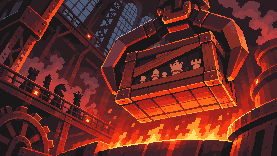
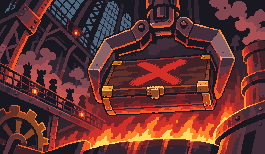
Import VA-06, VA-07 and VA-09 (casting floor, new law, box to furnace)
받은 세 장을 D-423 절차로 반입했다 (D-581).
- VA-06 END-K-2 「용해 주조」: 격자 4.977×5.042px 실측 → 336×186 도트. 단상 위 폰이 금왕관(작은 십자가)을 쓰고, 발치 종이 왕관만 crown_unify로 K0 색 다시 칠함. 샷을 금왕관 폰 · 잠기는 동료 쪽으로 다시 잼(at 72% 8% → 78% 25%), VN 판 도트 배우 끔(noCast).
- VA-07 SHD-B-1 「새 폰이 검수대 앞에」: 6.527×6.18px → 257×152 도트, 손질 없음. law-plate와 같은 기둥 · 강철판. 첫 줄 샷을 폰과 쇠판이 한 화면에 들도록 (0.3, 0.68)로.
- VA-09 END-F-2 「상자째 용광로로」: 6.32×6.065px → 265×154 도트, 손질 없음. 닫힌 나무 함 · 붉은 X · 집게. 샷을 뚜껑의 X → 함 · 불길로.
- 발주서 세 상자 「받음 · 반입 (D-581)」, DECISIONS D-581, 스토리보드 다시 뽑음.

Claude-Session: https://claude.ai/code/session_011jC4ZCDKW43H5FzLWnYVpe

diff --git a/src/data/script.ts b/src/data/script.ts
@@ -167,15 +167,16 @@ export const shadowCut = (chapter: number, law?: string, retry = chapter === 0):
     n('상자 뚜껑에 찍힌 붉은 X표가 눈을 뜬 그의 시야를 붉게 물들였다.', { shot: at(0.33, 0.78, 3), fx: 'red' }),
     m('조금 전까지 숨 쉬던 쇳덩이들이 흔적도 없이 녹아내렸다. 머지않아 내 차례가 올지도 모른다. 하지만 태엽이 감긴 이상, 나는 저 꼭대기 승급대까지 걸어 올라가야만 한다.', { shot: at(0.75, 0.2, 1), pause: 400, mood: 'fear' }),
   ]), slug: '같은 왕관 재도전', title: { kicker: chapterKick(chapter), title: '또 하나의 아홉째 폰', sub: chapterTitle(chapter), crown: crownNo(chapter) } }
+  // SHD-B-1 (VA-07, D-581): 왼쪽 앞 맨머리 흰 폰(머리 · 목깃) — 둥근 기둥의 리벳 강철판 · 위 먼 금빛 왕좌. 실제 재생은 첫 줄만 이 그림(shadowCuts)
   : { ...sceneCut('new-law', [
-    n('새로운 상자, 새로운 불량품. 또 다른 아홉 번째 폰이 종이 왕관을 접어 쓰고 검수대 앞에 섰다.', { shot: at(0.18, 0.8, 2) }),
-    n('그런데 전에는 없던 차가운 쇠판 하나가 검수대 기둥에 새로 못 박혀 있었다. 갓 새겨진 듯 글자 끝이 날카로웠다.', { shot: at(0.6, 0.5), sfx: 'stamp' }),
-    n(`「${law ?? '선대 왕이 새긴 규정'}」`, { shot: at(0.62, 0.55, 2), pause: 300 }),
+    n('새로운 상자, 새로운 불량품. 또 다른 아홉 번째 폰이 종이 왕관을 접어 쓰고 검수대 앞에 섰다.', { shot: at(0.3, 0.68) }),
+    n('그런데 전에는 없던 차가운 쇠판 하나가 검수대 기둥에 새로 못 박혀 있었다. 갓 새겨진 듯 글자 끝이 날카로웠다.', { shot: at(0.57, 0.5), sfx: 'stamp' }),
+    n(`「${law ?? '선대 왕이 새긴 규정'}」`, { shot: at(0.57, 0.52, 2), pause: 300 }),
     m([
       '소문대로 지난번에 올라간 폰이 왕이 된 건가? 그런데 왜 공장을 더 가혹하게 만들었지? 동료를 구하러 올라간 게 아니었나…',
       '두 번이나 킹이 바뀌었는데도 아래층은 여전히 지옥이군. 좋아, 그 썩은 왕좌에 내가 올라가서 이 공장의 규칙을 끝내버리겠어.',
       '앞선 세 명의 종이왕이 모두 저 위에 닿고도 공장을 더 옥죄었다. 그 높은 자리에는 대체 무엇이 도사리고 있는 걸까.',
-    ][Math.max(0, Math.min(2, chapter - 1))], { shot: at(0.6, 0.12, 1), pause: 300 }),
+    ][Math.max(0, Math.min(2, chapter - 1))], { shot: at(0.7, 0.1, 1), pause: 300 }),
   ]), slug: '새긴 규정', title: { kicker: chapterKick(chapter), title: chapterTitle(chapter), sub: '새로운 아홉째 폰', crown: crownNo(chapter) } };
 /** 막 입구 카드 (바이블 ACT-1~4): 서술 한 줄 + 속마음 한 줄. [0]은 프롤로그가 대신한다 */
 export const ACT_CARD = [
@@ -461,15 +462,16 @@ export const promotionCuts = (chapter: number, _crew: string, law: string, mirro
       n('왕관이 닿는 찰나, 평생 눈앞의 한 칸만 바라보며 떨던 폰의 시야가 폭발하듯 열렸다. 공장의 모든 층과 모든 기물의 움직임이 손바닥 안처럼 한눈에 내려다보였다.', { shot: at(0.5, 0.5), sfx: 'awaken', fx: 'gold' }),
       m('아… 이것이 왕의 눈인가. 이토록 높고, 완전하며, 무엇 하나 두려울 것이 없는 눈부신 권능이라니…!', { shot: at(0.5, 0.78, 2), pause: 500, mood: 'gilt' }),
     ]), slug: '왕의 눈', shot: at(0.5, 0.42, 3), trans: 'cut' },
+    // END-K-2 (VA-06, D-581): 오른쪽 위 황동 단상에 금왕관을 쓴 폰(초점 78% 25%) · 발치에 구겨진 종이 왕관(87% 42%) · 아래 쇳물에 잠기는 흰 폰 셋 · 쇠사슬
     { ...sceneCut('casting-floor', [
       // END-K-2-1 시스템: 기계음은 이름표 「용해 주조기」(적 쇠 명패)로 — 서술과 갈라 보인다 (#22)
-      s('용해 주조기', '금단의 승급 개시. 하급 기물(폰)을 정품 킹으로. 부족한 규격 중량 및 황금빛 도금을 위해, 동행 기물 전원의 용해 주조 공정을 시작합니다.', { shot: at(0.72, 0.12, 1), sfx: 'threat', fx: 'red' }),
+      s('용해 주조기', '금단의 승급 개시. 하급 기물(폰)을 정품 킹으로. 부족한 규격 중량 및 황금빛 도금을 위해, 동행 기물 전원의 용해 주조 공정을 시작합니다.', { shot: at(0.78, 0.22, 1), sfx: 'threat', fx: 'red' }),
       n('그 냉혹한 기계음과 동시에 통제실 바닥이 거대하게 갈라지고, 뒤에서 기다리던 동료들의 발밑으로 시뻘건 쇳물과 쇠사슬이 솟구쳐 올라왔다.', { shot: at(0.45, 0.7), sfx: 'hit', fx: 'shake' }),
       // D-465: 결전에서 녹여 바친 동료가 있으면 — 쇳물은 처음이 아니었다
-      ...(company?.melted?.length ? [n(`쇳물은 처음이 아니었다. 결전에서 그가 녹여 바친 ${meltedNames(company)}의 쇳물이, 이미 왕관 안쪽을 금빛으로 덮고 있었다.`, { shot: at(0.72, 0.1, 3) })] : []),
-      ...(who ? [s(who.name, CRY.floor[who.v], { shot: at(0.35, 0.78, 2), fx: 'shake' })] : []),
-      n('아직 주조가 완료되지 않았다. 지금 당장 머리의 왕관만 벗어 던지면, 아직은 공정을 멈추고 동료들을 끌어올릴 수 있는 찰나의 시간이었다. 하지만 그는 단상 위에서 한 발짝도 움직이지 못했다.', { shot: at(0.72, 0.1, 2), pause: 600 }),
-    ]), alt: 'gilded-fallen', fx: 'red', at: '72% 8%', slug: '용해 주조', shot: at(0.5, 0.5), trans: 'melt' }, // S-17: 단상 위 종이왕(오른쪽 위)이 잘리지 않게
+      ...(company?.melted?.length ? [n(`쇳물은 처음이 아니었다. 결전에서 그가 녹여 바친 ${meltedNames(company)}의 쇳물이, 이미 왕관 안쪽을 금빛으로 덮고 있었다.`, { shot: at(0.78, 0.14, 3) })] : []),
+      ...(who ? [s(who.name, CRY.floor[who.v], { shot: at(0.37, 0.8, 2), fx: 'shake' })] : []),
+      n('아직 주조가 완료되지 않았다. 지금 당장 머리의 왕관만 벗어 던지면, 아직은 공정을 멈추고 동료들을 끌어올릴 수 있는 찰나의 시간이었다. 하지만 그는 단상 위에서 한 발짝도 움직이지 못했다.', { shot: at(0.8, 0.22, 1), pause: 600 }),
+    ]), alt: 'gilded-fallen', fx: 'red', at: '78% 25%', slug: '용해 주조', shot: at(0.5, 0.5), trans: 'melt' }, // VA-06: 단상 위 금왕관 폰(오른쪽 위)이 잘리지 않게
     // ED-03 뻗지 않은 손 (D-510 · 재발주본 D-514 — 다문 말머리): END-K-2-5 · 2-6 — 위 단상의 움직이지 않는 받침(속마음) → 쇠사슬에 끌려 내려가며 위로 뻗은 나이트(외침)
     { ...sceneCut('end-k-reach', [
       m('왕관을 벗으라고…? 방금 손에 넣은 이 완벽한 시야와 영원한 안전을 버리고, 다시 그 좁고 어두운 한 칸짜리 폰으로 내려가서 검은 세트에게 부서지라고?', { shot: at(0.7, 0.12, 2), pause: 300, mood: 'gilt' }),
@@ -512,7 +514,8 @@ export const DEFEAT: Cut = cut('end-fail', [
  */
 export const DEFEAT_CUTS: Cut[] = [
   { ...sceneCut('end-fail', [{ ...DEFEAT.lines[0], shot: at(0.6, 0.42, 1), sfx: 'lose', fx: 'red' }]), fx: 'alarm', slug: '출하 실패', shot: at(0.72, 0.72, 3), trans: 'dither' },
-  { ...sceneCut('end-f-box', [{ ...DEFEAT.lines[1], shot: at(0.55, 0.6), sfx: 'threat' }]), alt: 'prologue-01', slug: '상자째 용광로로', shot: at(0.62, 0.45, 2), trans: 'melt' },
+  // END-F-2 (VA-09, D-581): 집게에 물린 닫힌 나무 함 · 뚜껑의 붉은 X(가까이) → 아래 용광로 불길 · 왼쪽 난간의 검은 실루엣까지 넓게
+  { ...sceneCut('end-f-box', [{ ...DEFEAT.lines[1], shot: at(0.55, 0.5), sfx: 'threat' }]), alt: 'prologue-01', slug: '상자째 용광로로', shot: at(0.58, 0.45, 2), trans: 'melt' },
   { ...sceneCut('end-f-unwind', [{ ...DEFEAT.lines[2], shot: at(0.45, 0.62, 1), pause: 900 }]), slug: '풀리는 태엽', shot: at(0.76, 0.62, 3), trans: 'black', end: { kicker: '출하 실패', title: '킹이 쓰러졌습니다', sub: '출하는 여기서 끝납니다.', tone: 'crimson' } },
 ];
 /**

diff --git a/src/data/vn.ts b/src/data/vn.ts
@@ -56,7 +56,8 @@ export const VN_SCENE: Record<string, VnScene> = {
   '종이 왕관': { air: 'dust', noCast: true },
   '부관 박차': { air: 'steam', noCast: true },
   '검은 세트와 먼 왕좌': { air: 'steam', drift: { x: 0, y: -1 } },
-  '용해 주조': { air: 'embers' },
+  // D-581: VA-06 재발주본은 금왕관 폰 · 잠기는 동료를 그림 안에 그려 왔다 — 주조기 · 분대원 대사에 판 도트 배우를 세우지 않는다(D-572)
+  '용해 주조': { air: 'embers', noCast: true },
   '금빛 거푸집': { air: 'embers', lamp: true },
   '새 도금왕의 왕좌': { air: 'sparks' },
   '상자째 용광로로': { air: 'embers' },

diff --git a/tools/pixel/scene_recipe.py b/tools/pixel/scene_recipe.py
@@ -145,8 +145,6 @@ SCENE_GRID = {
     'act-2': {'src': 'AC-02-source.png', 'grid': (6.03, 1.51, 6.03, 1.51), 'measured': (None, None), 'presence': (1.034, 1.025), 'canon': True, 'trim': (30, 0.25)},
     # 격자 없음(있음 x 1.005 · y 0.999) → 정본 간격 6.03
     'act-4': {'src': 'AC-03-source.png', 'grid': (6.03, 1.13, 6.03, 5.28), 'measured': (None, None), 'presence': (1.005, 0.999), 'canon': True, 'trim': (30, 0.25)},
-    # 격자 없음(있음 x 1.01 · y 1.019) → 정본 간격 6.03
-    'casting-floor': {'src': 'S-17-casting-floor-source.webp', 'grid': (6.03, 2.26, 6.03, 0.38), 'measured': (None, None), 'presence': (1.01, 1.019), 'canon': True},
     # 격자 없음(있음 x 1.029 · y 1.021) → 정본 간격 6.03
     'chained-door': {'src': 'S-13-chained-door-source.webp', 'grid': (6.03, 3.77, 6.03, 0.75), 'measured': (None, None), 'presence': (1.029, 1.021), 'canon': True},
     # 격자 없음(있음 x 1.022 · y 1.019) → 정본 간격 6.03
@@ -155,8 +153,6 @@ SCENE_GRID = {
     'crown-gears': {'src': 'S-19-crown-gears-source.webp', 'grid': (6.03, 2.64, 6.03, 0.75), 'measured': (None, None), 'presence': (1.012, 1.015), 'canon': True},
     # 격자 없음(있음 x 1.009 · y 1.023) → 정본 간격 6.03
     'gold-cast': {'src': 'S-18-gold-cast-source.webp', 'grid': (6.03, 2.64, 6.03, 0.75), 'measured': (None, None), 'presence': (1.009, 1.023), 'canon': True},
-    # 격자 없음(있음 x 1.028 · y 1.04) → 정본 간격 6.03
-    'new-law': {'src': 'S-11-new-law-source.webp', 'grid': (6.03, 3.02, 6.03, 0.0), 'measured': (None, None), 'presence': (1.028, 1.04), 'canon': True},
     # 격자 없음(있음 x 1.026 · y 1.026) → 정본 간격 6.03
     'old-spring': {'src': 'S-14-old-spring-source.webp', 'grid': (6.03, 0.0, 6.03, 2.26), 'measured': (None, None), 'presence': (1.026, 1.026), 'canon': True},
     # 격자 없음(있음 x 1.007 · y 1.013) → 정본 간격 6.03
@@ -171,8 +167,6 @@ SCENE_GRID = {
     'crown-3-open': {'src': 'CN-02-source.png', 'grid': (6.03, 0.38, 6.03, 4.15), 'measured': (None, None), 'presence': (1.029, 1.044), 'canon': True, 'trim': (30, 0.25)},
     # 격자 없음(있음 x 1.014 · y 1.014) → 정본 간격 6.03
     'crown-3-throne': {'src': 'CN-06-source.png', 'grid': (6.03, 3.39, 6.03, 4.9), 'measured': (None, None), 'presence': (1.014, 1.014), 'canon': True, 'trim': (30, 0.25)},
-    # 격자 없음(있음 x 1.007 · y 1.013) → 정본 간격 6.03
-    'end-f-box': {'src': 'ED-10-source.png', 'grid': (6.03, 5.28, 6.03, 2.26), 'measured': (None, None), 'presence': (1.007, 1.013), 'canon': True, 'trim': (30, 0.25)},
     # 격자 없음(있음 x 1.006 · y 1.007) → 정본 간격 6.03 · 나이트 눈 칸을 새 격자에서 다시 짚었다(콧구멍 · 입 홈은 6px 칸에서 이미 얼굴 면에 묻힌다)
     'end-f-unwind': {'src': 'ED-11-source.png', 'grid': (6.03, 1.88, 6.03, 1.13), 'measured': (None, None), 'presence': (1.006, 1.007), 'canon': True, 'trim': (30, 0.25), 'erase': [{'what': '나이트 눈 (사용자 지시 2026-11-15 — 재발주 대신 지운다)', 'box': (118, 102, 120, 104), 'from': (117, 102)}]},
     # 격자 없음(있음 x 1.031 · y 1.032) → 정본 간격 6.03
@@ -198,6 +192,15 @@ SCENE_GRID = {
     'prologue-05': {'src': 'VA-04-source.png', 'grid': (6.62, 4.41, 6.1, 2.03), 'measured': (6.62, 6.1), 'presence': (1.159, 1.361)},
     # 실측 x 6.34 (있음 1.056 · 두 축 짝 있음 최고) · y 5.845 (있음 1.07 · 두 축 짝 있음 최고)
     'prologue-06': {'src': 'VA-05-source.png', 'grid': (6.34, 1.06, 5.845, 4.87), 'measured': (6.34, 5.845), 'presence': (1.056, 1.07)},
+    # D-581 재발주 VA-06 · VA-07 · VA-09 (regrid.measure 4.5 ~ 9px — END-K-2 · SHD-B-1 · END-F-2 컷을 갈아 끼운다. 옛 S-17 · S-11 · ED-10 원본은
+    #   build-res/order에 보관 — 옛 값: 셋 다 격자 없음 → 정본 간격 6.03, end-f-box만 trim). 셋 다 띠 없이 끝까지 채워 왔다(trim 없음).
+    #   VA-06은 발주 277×156 ×6이 아니라 생성기 ~5px 도트(gridmeasure 3 ~ 16px도 9.9px 봉우리의 절반 4.92 · 5.04로 같은 값) → 336×186.
+    # 실측 x 4.977 (있음 1.124 · 두 축 짝 있음 최고) · y 5.042 (있음 1.085 · 두 축 짝 있음 최고)
+    'casting-floor': {'src': 'VA-06-source.png', 'grid': (4.977, 4.56, 5.042, 2.1), 'measured': (4.977, 5.042), 'presence': (1.124, 1.085)},
+    # 실측 x 6.527 (있음 1.101 · 두 축 짝 있음 최고) · y 6.18 (있음 1.101 · 두 축 짝 있음 최고)
+    'new-law': {'src': 'VA-07-source.png', 'grid': (6.527, 4.9, 6.18, 0.52), 'measured': (6.527, 6.18), 'presence': (1.101, 1.101)},
+    # 실측 x 6.32 (있음 1.09 · 두 축 짝 있음 최고) · y 6.065 (있음 1.15 · 두 축 짝 있음 최고)
+    'end-f-box': {'src': 'VA-09-source.png', 'grid': (6.32, 1.05, 6.065, 3.03), 'measured': (6.32, 6.065), 'presence': (1.09, 1.15)},
 }
 # 같은 이름의 옛 941/180 값은 축마다 잰 격자로 덮는다 (값 = (px, ox, py, oy) — snap.run이 아니라 regrid.build_one이 읽는다)
 MANUAL_PITCH.update({n: g['grid'] for n, g in SCENE_GRID.items()})
@@ -422,6 +425,10 @@ OPENING_GRID = {
     'VA-02': {'name': 'prologue-03', 'trim_max': 30, 'trim_dark': 0.25},
     'VA-04': {'name': 'prologue-05', 'trim_max': 30, 'trim_dark': 0.25},
     'VA-05': {'name': 'prologue-06', 'trim_max': 30, 'trim_dark': 0.25},
+    # D-581 재발주 VA-06(END-K-2 용해 주조) · VA-07(SHD-B-1 새 폰이 검수대 앞에) · VA-09(END-F-2 상자째 용광로로) — SCENE_GRID 실측 격자로 regrid.build_one
+    'VA-06': {'name': 'casting-floor', 'trim_max': 30, 'trim_dark': 0.25},
+    'VA-07': {'name': 'new-law', 'trim_max': 30, 'trim_dark': 0.25},
+    'VA-09': {'name': 'end-f-box', 'trim_max': 30, 'trim_dark': 0.25},
 }
 
 
@@ -448,7 +455,7 @@ ENDING_GRID = {
     'ED-08': {'name': 'end-t-step', 'trim_max': 30, 'trim_dark': 0.25},
     # D-516 패배 END-F 세 컷 · 크레딧 바탕 — 넷 다 띠 없이 끝까지 채워 왔다. ED-09 재발주본(옛 end-fail은 E-02-end-fail-source.png)
     'ED-09': {'name': 'end-fail', 'trim_max': 30, 'trim_dark': 0.25},
-    'ED-10': {'name': 'end-f-box', 'trim_max': 30, 'trim_dark': 0.25},
+    'ED-10': {'name': 'end-f-box', 'trim_max': 30, 'trim_dark': 0.25},  # D-581: end-f-box는 VA-09 재발주본(SCENE_GRID) — ED-10 원본은 보관
     # ED-11 사용자 지시(2026-11-15): 나이트의 눈은 재발주하지 않고 지운다 — 격자 복원 뒤 erase 칸을 같은 말머리 면의 이웃 칸 색(from)으로 메운다(새 색 없음).
     #   box = (왼, 위, 오른, 아래) 도트(오른 · 아래 미포함), from = 메울 색을 읽는 이웃 칸 (x, y). 대조판 아래 줄에 전 | 후(×12)
     #   말머리 면은 #51484B ~ #594E51 한 단(같은 명암) — 눈 · 콧구멍 · 입 홈의 먹(#181516 · #1D1A1B · #231D1D)만 그 면 색으로. 테 빛 · 턱 외곽선은 그대로.

diff --git a/tools/pixel/crown_unify.py b/tools/pixel/crown_unify.py
@@ -67,7 +67,8 @@ TABLE = {
     # 왕관 · 결말
     S + 'crown-1-throne.png': {'crowns': [{'box': (45, 118, 108, 150), 'seeds': [(65, 140), (85, 135), (100, 140)], 'sat': 0.4}]},
     S + 'crown-dais.png': {'crowns': [{'box': (203, 88, 240, 107), 'seeds': [(215, 95), (228, 98)], 'sat': 0.4}]},
-    S + 'casting-floor.png': {'crowns': [{'box': (190, 7, 212, 22), 'sat': 0.45, 'not': [(201, 16, 212, 22)]}]},
+    # D-581 VA-06 재발주본: 단상 위 폰은 금왕관 — 종이 왕관은 단상 발치(폰 오른쪽)에 구겨져 걸린 것 하나. 씨앗 = 왕관 앞면 · 뿔(아래 단상 황동 띠는 상자 밖)
+    S + 'casting-floor.png': {'crowns': [{'box': (278, 66, 309, 86), 'seeds': [(283, 80), (291, 80), (300, 80)], 'sat': 0.3}]},
     S + 'gilded-fallen.png': {'crowns': [{'box': (18, 84, 47, 108), 'seeds': [(30, 95), (22, 102)], 'sat': 0.4}]},
     S + 'end-fail.png': {'crowns': [{'box': (158, 86, 236, 136), 'seeds': [(200, 120), (175, 125), (220, 110)], 'sat': 0.4,
                                      'not': [(150, 80, 186, 107), (150, 80, 192, 97)]}]},

diff --git a/docs/asset-order-master.md b/docs/asset-order-master.md
@@ -224,7 +224,7 @@
 | 25 | P1 | **메뉴 · 「쓸 수 없음」 단추 (D-539 새)** — MM-01 비활성 단추 4종 · 메뉴 단추 3상태 · 메뉴 아이콘 5종 **받음 · 반입 (D-544)** · MM-02 꺼짐 선택지 · 손패 판 **받음 · 반입 (D-559)** | 2 | 14 | 출시 전 UX 검수 H3 · B1 (2026-11-17) |
 | 26 | P2 | **부품 상태 딱지 재발주 (D-552 새)** — UI-34R 준비 중 · 가능 · 소진 16×16 도트 셋 (받은 UI-34는 약 53도트로 그려 16칸으로 줄이면 톱니가 뭉개진다 — 받기 전엔 지금 그림 그대로) | 1 | 3 | 격자 감사 2026-11-17 |
 | 27 | P1 | **스토어 로고 · 컨셉아트 (D-564 새)** — 로고 L1 「주물 명판」 LG-01a · b · c **받음 · 반입 (D-568 — 셋 다 사내 손질로 씀, 타이틀 글자 = LG-01b)** · 컨셉아트 K1 ~ K4 넷 다(KV-01 · KV-02h 히어로 배경 · KV-03 · KV-04, K2 키아트 A는 받음) — **KV-01 · KV-02h · KV-03 받음 · 반입 (D-570, 스팀 6장 조립 `build-res/store/`) · KV-04 받음 · 반입 (D-578, 플레이 피처 그래픽)** · 상세 스크린샷은 실제 게임 화면 8장(발주 아님) | 5 | 7 | 사장님 결정 2026-11-18 (D-560 토의) |
-| 28 | P1 | **컷 이어짐 재발주 (D-566 새 — VN 컷 감사)** — 세트 상자 한 벌 VA-01 · 02 · 09 · 10 (**D-569: 상자 정본 = PRO-05 붉은 벨벳 나무 함 · VA-03 취소 · VA-10 새**) (**VA-02 받음 · 반입 D-578**) · 종이 왕관 VA-04 · 05 (**받음 · 반입 D-578**) · 금왕관 VA-06 · 08 · 규정 쇠판 VA-07 (OP-05는 받았지만 이야기와 어긋나 쓰지 않음) | 9 | 9 | 사장님 질문 2026-11-18 (OP-05) · `docs/reports/2026-11-18-vn-cut-audit.md` |
+| 28 | P1 | **컷 이어짐 재발주 (D-566 새 — VN 컷 감사)** — 세트 상자 한 벌 VA-01 · 02 · 09 · 10 (**D-569: 상자 정본 = PRO-05 붉은 벨벳 나무 함 · VA-03 취소 · VA-10 새**) (**VA-02 받음 · 반입 D-578**) · 종이 왕관 VA-04 · 05 (**받음 · 반입 D-578**) · 금왕관 VA-06 · 08 · 규정 쇠판 VA-07 (**VA-06 · VA-07 · VA-09 받음 · 반입 D-581**) (OP-05는 받았지만 이야기와 어긋나 쓰지 않음) | 9 | 9 | 사장님 질문 2026-11-18 (OP-05) · `docs/reports/2026-11-18-vn-cut-audit.md` |
 | 29 | P2 | **카드 앞면 리뉴얼 (D-571 → D-574 → D-576 · 토의 후 발주)** — 1차 CD-01a ~ d 취소(사장님 반려 D-576). 2차 명령 카드 앞면 틀 3등급 84×126 + 그림 창 배경 겹 시안 세 방향 CD-01e 훈장 명판 · f 용광로 액자(추천) · g 주철 패 가운데 하나만 낸다. 비용 톱니 · 꼬리표 · 뒷면 CD-02 ~ 04 취소(지금 그림 그대로), 그림 창 테 CD-05는 앞면에 합침 — 사장님이 고르기 전에는 복사하지 않는다(맨 위 「디자인 토의 — 카드 앞면 리뉴얼 2차 시안」) | 1 | 1 | 사장님 스토어 스크린샷 점검 · 앞면 피드백 2026-11-18 |
 | 합 | | | **93** (29위 CD-01e ~ g는 토의 후 발주 · CD-01a ~ d 취소 · CD-02 ~ 05 취소 · PT-01~03 · PT-08 · PT-09 · EF-01~03 · WG-02 · BF-01 취소 · 24위 상자 수는 그 절) | **204 + 24위** | |
 
@@ -4174,7 +4174,8 @@
 이 명세만으로 한 장의 완성 그림을 제작한다.
 ```
 
-## VA-06 · END-K-2 「용해 주조」 — 금왕관을 쓴 채 단상에 선 폰 (`casting-floor` 재발주)
+## VA-06 · END-K-2 「용해 주조」 — 금왕관을 쓴 채 단상에 선 폰 (`casting-floor` 재발주) · 받음 · 반입 (D-581)
+- **받음 · 반입 (D-581)**: 판정 USE WITH IN-HOUSE FIX — 오른쪽 위 둥근 황동 단상(리벳 띠)에 정면으로 선 흰 폰 · 닫힌 금왕관(둥근 장식 · 작은 십자가) · 발치에 구겨진 종이 왕관(청록 보석) · 갈라진 바닥 쇳물에 잠기는 흰 폰 셋 · 쇠사슬 · 붉은 경고등 둘. 손질 = 발치 종이 왕관 색만 `crown_unify`로 K0 마분지 세 단 다시 칠하기(293+8칸). 1672×941로 와 격자 x 4.977 · y 5.042px(발주 ×6이 아닌 생성기 ~5px) → **336×186 도트**(`SCENE_GRID['casting-floor']`, `opening_import.py VA-06`). 샷: 주조기 목소리 (0.78, 0.22 ×1) 금왕관 폰 · 녹인 동료 줄 (0.78, 0.14 ×3) 금왕관 · 분대원 외침 (0.37, 0.8 ×2) 잠기는 폰 · 끝 줄 (0.8, 0.22 ×1) 폰 + 발치 종이 왕관, `at` 72% 8% → 78% 25%. 그림 안에 인물이 있어 VN 배우 도트 끔(`VN_SCENE['용해 주조'].noCast`, D-572).
 - 이야기(END-K-1 → 2): 종이왕은 종이 왕관을 발치에 내던지고 **금왕관을 머리에 얹었다**(앞 컷 `crown-dais`) → 용해 주조기 「동행 기물 전원의 용해 주조 공정을 시작합니다」 / 통제실 바닥이 갈라지고 동료들 발밑으로 쇳물과 쇠사슬 / 「지금 왕관만 벗어 던지면… 하지만 그는 단상 위에서 한 발짝도 움직이지 못했다」. 지금 그림은 바닥 · 쇳물 · 사슬은 맞지만 **단상 위 폰이 다시 종이 왕관(청록 보석)을 쓰고 있다** — 앞 `crown-dais` · 뒤 `gold-cast`의 십자가 금왕관과 끊긴다.
 - 기물이 그림 안에 든다(첨부): 금왕관을 쓴 폰은 정본 기물 그림에 없다 — 정본 `s-P0`(몸) + 앞 컷 `crown-dais`(금왕관 모양) 첨부, 「정본 · 폰」 · 「정본 · 킹」(작은 십자가) · 「정본 · 일러스트 기물」(첨부는 모양 약속만, D-572).
 - 앞뒤 이어짐: 앞 `crown-dais`(둥근 황동 단상 · 십자가 금관 · 발치 종이 왕관) → `end-k-sight`(왕의 눈) → 이 컷(같은 황동 단상이 오른쪽 위, 그 아래 바닥이 갈라짐) → 다음 `end-k-reach`(단상 받침 아래 쇠사슬에 끌려 위로 뻗는 흰 나이트 · 오른쪽 주조기 아가리). 단상 · 사슬 · 쇳물 색은 넷이 같다.
@@ -4220,7 +4221,8 @@
 이 명세만으로 한 장의 완성 그림을 제작한다.
 ```
 
-## VA-07 · SHD-B-1 「새 폰이 검수대 앞에」 — 규정 쇠판 기둥 앞 (`new-law` 재발주 · 새 폰은 그림 안에)
+## VA-07 · SHD-B-1 「새 폰이 검수대 앞에」 — 규정 쇠판 기둥 앞 (`new-law` 재발주 · 새 폰은 그림 안에) · 받음 · 반입 (D-581)
+- **받음 · 반입 (D-581)**: 판정 USE — 둥근 기둥에 못 박힌 리벳 강철판(긁어 새긴 홈 · 갓 깎인 반짝임) · 왼쪽 붉은 철망 등 · 폰 문장 깃발 · 오른쪽 황동 톱니 · 위 먼 금빛 왕좌 · 왼쪽 앞 맨머리 흰 폰(그림 화풍). 다음 컷 `law-plate`와 같은 기둥 · 판. 참고(손질 안 함): 홈이 넷(`law-plate`는 다섯) · 왕좌가 세로 약 10%로 발주(20 ~ 29%)보다 높다 — 홈을 그려 넣는 것은 사내 손질 밖(D-561 ④). 격자 x 6.527 · y 6.18px → **257×152 도트**(`SCENE_GRID['new-law']`). 샷 SHD-B-1 (0.2, 0.8 ×2) → (0.3, 0.68 ×0) 폰과 쇠판이 한 화면.
 - 이야기(SHD-B-1 → 2 · 3): 또 다른 아홉 번째 폰이 검수대 앞에 섰다 → 「전에는 없던 **차가운 쇠판** 하나가 검수대 기둥에 새로 못 박혀 있었다. 갓 새겨진 듯 글자 끝이 날카로웠다.」 → 「새 규정」. 지금 `new-law`는 **왕관 문양 황동 판**, 바로 다음 `law-plate`는 **회색 강철판 · 붉은 등 · 폰 문장 깃발** — 같은 판이 컷 사이에 바뀐다. `law-plate`는 END-K 「새긴 규정」(ED-05)과 공용이라 그쪽을 정본으로 두고 이 컷을 맞춘다.
 - 기물은 그림 안에 그린다(D-572): 왼쪽 앞에 맨머리 흰 폰 하나 — 이 그림의 화풍으로. 게임 도트 말은 얹지 않는다.
 - 앞뒤 이어짐: 이 컷(멀리서 본 검수대 기둥과 그 쇠판) → 다음 `law-plate`(같은 기둥 · 같은 판에 다가간 클로즈업) → 왕관 시작 컷 `crown-2/3/4-open`.
@@ -4308,7 +4310,8 @@
 이 명세만으로 한 장의 완성 그림을 제작한다.
 ```
 
-## VA-09 · END-F-2 「상자째 용광로로」 — 집게에 들린 같은 세트 상자 (`end-f-box` 재발주 · 기물 안 보임)
+## VA-09 · END-F-2 「상자째 용광로로」 — 집게에 들린 같은 세트 상자 (`end-f-box` 재발주 · 기물 안 보임) · 받음 · 반입 (D-581)
+- **받음 · 반입 (D-581)**: 판정 USE — 거대한 쇠 집게에 물린 닫힌 나무 함(황동 덧쇠 · 걸쇠, 기물 안 보임) · 뚜껑의 붉은 X · 아래 용광로 불길 · 왼쪽 난간의 검은 기물 실루엣 · 청회색 창. 격자 x 6.32 · y 6.065px → **265×154 도트**(`SCENE_GRID['end-f-box']`, `opening_import.py VA-09`), 사내 손질 없음. 샷: 컷 (0.62, 0.45 ×2) → (0.58, 0.45 ×2) 뚜껑의 X · 줄 (0.55, 0.6) → (0.55, 0.5) 집게 · 함 · 불길. 옛 ED-10 원본은 보관.
 - 이야기(END-F): 종이 왕관이 굴러떨어지고 검수기가 붉은 불빛 → 「패배한 흰 세트는 **상자째** 들어 올려져 시뻘건 용광로 입구로 옮겨졌다.」 → 태엽이 풀려 멈춤. 지금 그림은 글과 맞지만 상자가 **벨벳 없는 나무 궤짝**(틈으로 기물이 보임)이라 정본 함(PRO-05 붉은 벨벳 나무 함, D-569)과 다르다 — 「킹이 쓰러진 세트는 상자째 용광로로」(PRO-02)가 바로 그 상자로 이뤄지는 컷이다.
 - 앞뒤 이어짐: 앞 `end-fail`(붉은 검수기 빛 · 바닥의 종이 왕관 · 쓰러진 폰) → 이 컷(VA-02처럼 붉은 X가 찍힌 같은 나무 함, 뚜껑 닫힘, 거대한 집게에 물려 용광로 위) → 다음 `end-f-unwind`(회색으로 멈춘 흰 기물들). 뚜껑이 닫혀 기물은 보이지 않는다.
 - 크기: **277×156 도트 → ×6 = 1662×936** (지금 `public/scenes/end-f-box.png` 277×156)

diff --git a/docs/storyboard.md b/docs/storyboard.md
@@ -205,17 +205,17 @@
 
 #### SHD-B · 둘째 왕관 시작
 
-- **그림**: `new-law.png` — `new-law` — 왕관 없는 새 폰이 커다란 황동 규정판(왕관 문양 · 새긴 줄)을 올려다본다. 위쪽 멀리 왕좌 → 2~3줄은 `law-plate`(ED-05, END-K 규정 컷과 같은 쇠판 그림 — D-510 `shadowCuts`) → 4줄 속마음은 `crown-2-open`(CN-01, D-516) — 리벳 띠를 한 겹 더 덧부은 흑 비숍 · 룩 · 킹 · 나이트를 아래에서 올려다본 그림, 뒤 기둥에 빈 쇠판. 종이왕은 일부러 넣지 않았다(흑 기물만)
+- **그림**: `new-law.png` — `new-law` (VA-07, D-581) — 왼쪽 앞 맨머리 흰 폰이 둥근 기둥에 못 박힌 리벳 강철판(긁어 새긴 홈 줄 · 갓 깎인 반짝임)을 올려다본다. 왼쪽 붉은 철망 등 · 폰 문장 깃발, 오른쪽 황동 톱니, 위쪽 멀리 금빛 왕좌 → 2~3줄은 `law-plate`(ED-05, END-K 규정 컷과 같은 쇠판 그림 — D-510 `shadowCuts`) → 4줄 속마음은 `crown-2-open`(CN-01, D-516) — 리벳 띠를 한 겹 더 덧부은 흑 비숍 · 룩 · 킹 · 나이트를 아래에서 올려다본 그림, 뒤 기둥에 빈 쇠판. 종이왕은 일부러 넣지 않았다(흑 기물만)
 - **장 제목 카드**: 둘째 왕관 / 「녹슨 태엽」 / 새로운 아홉째 폰
 - **들어오는 전환**: 디더
 - **메모**: 셋째 줄 「 」 = **앞 왕관에서 왕이 된 종이왕이 새긴 규정**(§7-4). 마지막 속마음은 왕관마다 다르다(아래).
 
 | ID | 형식 | 화자 | 원문 | 연출 |
 |---|---|---|---|---|
-| SHD-B-1 | 서술 | — | 새로운 상자, 새로운 불량품. 또 다른 아홉 번째 폰이 종이 왕관을 접어 쓰고 검수대 앞에 섰다. | 샷 18·80 ×2 |
-| SHD-B-2 | 서술 | — | 그런데 전에는 없던 차가운 쇠판 하나가 검수대 기둥에 새로 못 박혀 있었다. 갓 새겨진 듯 글자 끝이 날카로웠다. | 샷 60·50 · 소리 stamp |
-| SHD-B-3 | 서술 | — | 「흑 기물의 쇠는 더 두껍게 붓는다」 | 숨 300 · 샷 62·55 ×2 |
-| SHD-B-4-A2 | 독백 | 주인공(속마음) | ‘소문대로 지난번에 올라간 폰이 왕이 된 건가? 그런데 왜 공장을 더 가혹하게 만들었지? 동료를 구하러 올라간 게 아니었나…’ | 숨 300 · 샷 60·12 ×1 |
+| SHD-B-1 | 서술 | — | 새로운 상자, 새로운 불량품. 또 다른 아홉 번째 폰이 종이 왕관을 접어 쓰고 검수대 앞에 섰다. | 샷 30·68 |
+| SHD-B-2 | 서술 | — | 그런데 전에는 없던 차가운 쇠판 하나가 검수대 기둥에 새로 못 박혀 있었다. 갓 새겨진 듯 글자 끝이 날카로웠다. | 샷 57·50 · 소리 stamp |
+| SHD-B-3 | 서술 | — | 「흑 기물의 쇠는 더 두껍게 붓는다」 | 숨 300 · 샷 57·52 ×2 |
+| SHD-B-4-A2 | 독백 | 주인공(속마음) | ‘소문대로 지난번에 올라간 폰이 왕이 된 건가? 그런데 왜 공장을 더 가혹하게 만들었지? 동료를 구하러 올라간 게 아니었나…’ | 숨 300 · 샷 70·10 ×1 |
 
 | ID | 왕관 | 마지막 속마음 |
 |---|---|---|
@@ -658,15 +658,15 @@
 
 #### END-K-2 · 용해 주조
 
-- **그림**: `casting-floor.png` — `casting-floor` — 통제실 바닥이 갈라져 쇳물과 쇠사슬이 동료들을 끌어내리고, 단상 위 금왕관의 폰이 내려다본다 (그동안 `gilded-fallen`)
+- **그림**: `casting-floor.png` — `casting-floor` (VA-06, D-581) — 통제실 바닥이 갈라져 쇳물과 쇠사슬이 동료들을 끌어내리고, 오른쪽 위 황동 단상에서 금왕관을 쓴 폰이 꼼짝 않고 선다. 발치에 구겨진 종이 왕관 (그동안 `gilded-fallen`)
 - **들어오는 전환**: 쇳물 · 첫 샷 50·50
 
 | ID | 형식 | 화자 | 원문 | 연출 |
 |---|---|---|---|---|
-| END-K-2-1 | 대사 | 용해 주조기 | “금단의 승급 개시. 하급 기물(폰)을 정품 킹으로. 부족한 규격 중량 및 황금빛 도금을 위해, 동행 기물 전원의 용해 주조 공정을 시작합니다.” | 샷 72·12 ×1 · 소리 threat · 붉은 경보 |
+| END-K-2-1 | 대사 | 용해 주조기 | “금단의 승급 개시. 하급 기물(폰)을 정품 킹으로. 부족한 규격 중량 및 황금빛 도금을 위해, 동행 기물 전원의 용해 주조 공정을 시작합니다.” | 샷 78·22 ×1 · 소리 threat · 붉은 경보 |
 | END-K-2-2 | 서술 | — | 그 냉혹한 기계음과 동시에 통제실 바닥이 거대하게 갈라지고, 뒤에서 기다리던 동료들의 발밑으로 시뻘건 쇳물과 쇠사슬이 솟구쳐 올라왔다. | 샷 45·70 · 소리 hit · 흔들림 |
-| END-K-2-3 | 대사 | 박차 | “대장! 바닥이 열립니다! 쇠사슬이 우리를 끌어내리고 있습니다! 이게 대체 무슨 일입니까!” | 샷 35·78 ×2 · 흔들림 |
-| END-K-2-4 | 서술 | — | 아직 주조가 완료되지 않았다. 지금 당장 머리의 왕관만 벗어 던지면, 아직은 공정을 멈추고 동료들을 끌어올릴 수 있는 찰나의 시간이었다. 하지만 그는 단상 위에서 한 발짝도 움직이지 못했다. | 숨 600 · 샷 72·10 ×2 |
+| END-K-2-3 | 대사 | 박차 | “대장! 바닥이 열립니다! 쇠사슬이 우리를 끌어내리고 있습니다! 이게 대체 무슨 일입니까!” | 샷 37·80 ×2 · 흔들림 |
+| END-K-2-4 | 서술 | — | 아직 주조가 완료되지 않았다. 지금 당장 머리의 왕관만 벗어 던지면, 아직은 공정을 멈추고 동료들을 끌어올릴 수 있는 찰나의 시간이었다. 하지만 그는 단상 위에서 한 발짝도 움직이지 못했다. | 숨 600 · 샷 80·22 ×1 |
 
 #### END-K-2 · 뻗지 않은 손
 
@@ -871,12 +871,12 @@
 
 #### END-F-2 · 상자째 용광로로
 
-- **그림**: `end-f-box.png` — (ED-10, D-516) 거대한 집게가 흰 기물이 든 나무 상자를 통째로 들어 시뻘건 용광로 위로 옮긴다. 왼쪽 난간에 검은 기물들
-- **들어오는 전환**: 쇳물 · 첫 샷 62·45 ×2
+- **그림**: `end-f-box.png` — (VA-09, D-581) 거대한 쇠 집게가 붉은 X가 찍힌 닫힌 세트 상자(나무 함 · 황동 덧쇠 · 걸쇠, 기물 안 보임)를 물고 시뻘건 용광로 위로 옮긴다. 왼쪽 난간에 검은 기물 실루엣들
+- **들어오는 전환**: 쇳물 · 첫 샷 58·45 ×2
 
 | ID | 형식 | 화자 | 원문 | 연출 |
 |---|---|---|---|---|
-| END-F-2 | 서술 | — | 패배한 흰 세트는 상자째 들어 올려져 시뻘건 용광로 입구로 옮겨졌다. | 샷 55·60 · 소리 threat |
+| END-F-2 | 서술 | — | 패배한 흰 세트는 상자째 들어 올려져 시뻘건 용광로 입구로 옮겨졌다. | 샷 55·50 · 소리 threat |
 
 #### END-F-3 · 풀리는 태엽
 
